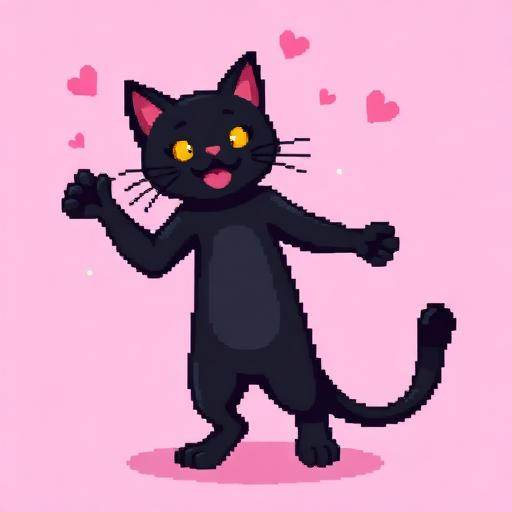
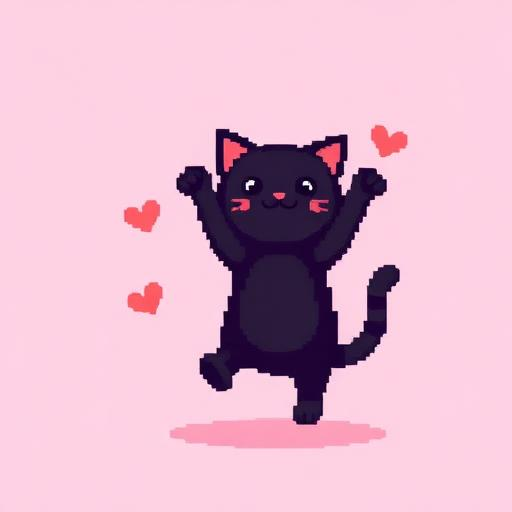
Changes

Changed region(s): [[0.0938, 0.0938, 0.9062, 0.9688], [0.5312, 0.0625, 0.625, 0.125], [0.625, 0.1562, 0.6562, 0.2188]]

diff --git a/src/pages/Index.tsx b/src/pages/Index.tsx
@@ -8,7 +8,7 @@ import Confetti from "@/components/Confetti";
 // =============================================
 // 🔧 CUSTOMIZE THESE VALUES
 // =============================================
-const GOOGLE_DRIVE_VIDEO_ID = "YOUR_VIDEO_ID_HERE"; // Replace with your Google Drive file ID
+const GOOGLE_DRIVE_VIDEO_ID = "1F1_FgckQ0Z-oo7nLeJOLDubcqwlZ82jt";
 // To get the ID: share your video → copy link → the ID is the long string in the URL
 // Example link: https://drive.google.com/file/d/ABC123XYZ/view → ID is ABC123XYZ
 // =============================================
@@ -37,10 +37,10 @@ const Index = () => {
       {screen === "envelope" && (
         <div className="flex flex-col items-center gap-6 z-10 animate-[scale-in_0.5s_ease-out]">
           <PixelEnvelope onClick={() => setScreen("question")} />
-          <p className="font-pixel text-primary text-sm sm:text-lg tracking-wide text-center px-4">
+          <p className="font-pixel text-foreground text-sm sm:text-lg tracking-wide text-center px-4 drop-shadow-sm">
             ♡ Letter For You ♡
           </p>
-          <p className="text-muted-foreground text-[10px] mt-2 animate-pulse">
+          <p className="text-foreground/70 text-[10px] mt-2 animate-pulse font-pixel">
             click to open
           </p>
         </div>
@@ -97,25 +97,14 @@ const Index = () => {
             </p>
 
             {/* Video Player */}
-            <div className="w-full mt-4 pixel-border bg-valentine-dark">
-              <div className="p-1">
-                {GOOGLE_DRIVE_VIDEO_ID === "YOUR_VIDEO_ID_HERE" ? (
-                  <div className="w-full aspect-video bg-muted flex items-center justify-center">
-                    <p className="font-pixel text-muted-foreground text-[8px] text-center px-4 leading-relaxed">
-                      🎬 Video goes here!<br />
-                      Replace VIDEO_ID in code
-                    </p>
-                  </div>
-                ) : (
-                  <iframe
-                    src={videoEmbedUrl}
-                    className="w-full aspect-video"
-                    allow="autoplay; encrypted-media"
-                    allowFullScreen
-                    title="Valentine's video"
-                  />
-                )}
-              </div>
+            <div className="w-full mt-4 pixel-border bg-valentine-dark p-1">
+              <iframe
+                src={videoEmbedUrl}
+                className="w-full aspect-video"
+                allow="autoplay; encrypted-media"
+                allowFullScreen
+                title="Valentine's video"
+              />
             </div>
           </RetroWindow>
         </div>

diff --git a/src/components/PixelCat.tsx b/src/components/PixelCat.tsx
@@ -13,12 +13,14 @@ const PixelCat = ({ dancing = false }: PixelCatProps) => {
         animation: dancing ? "wiggle 0.5s ease-in-out infinite" : "bob 2s ease-in-out infinite",
       }}
     >
-      <img
-        src={dancing ? catDanceImg : catHeartImg}
-        alt={dancing ? "Happy dancing cat" : "Cat holding a heart"}
-        className="w-32 sm:w-44 drop-shadow-md"
-        style={{ imageRendering: "pixelated" }}
-      />
+      <div className="overflow-hidden" style={{ clipPath: "inset(10% 12% 5% 12%)" }}>
+        <img
+          src={dancing ? catDanceImg : catHeartImg}
+          alt={dancing ? "Happy dancing cat" : "Cat holding a heart"}
+          className="w-40 sm:w-52 drop-shadow-md"
+          style={{ imageRendering: "pixelated" }}
+        />
+      </div>
     </div>
   );
 };

diff --git a/src/components/FloatingHearts.tsx b/src/components/FloatingHearts.tsx
@@ -3,7 +3,7 @@ import heartsBgImg from "@/assets/hearts-bg.png";
 const FloatingHearts = () => {
   return (
     <div
-      className="fixed inset-0 pointer-events-none z-0 opacity-60"
+      className="fixed inset-0 pointer-events-none z-0 opacity-40"
       style={{
         backgroundImage: `url(${heartsBgImg})`,
         backgroundSize: "400px",
